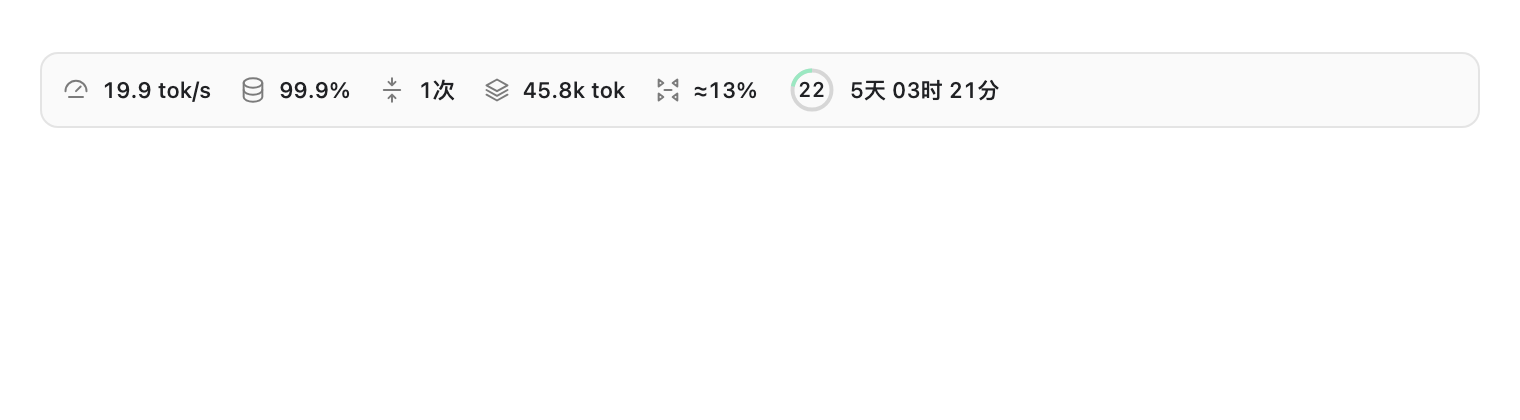
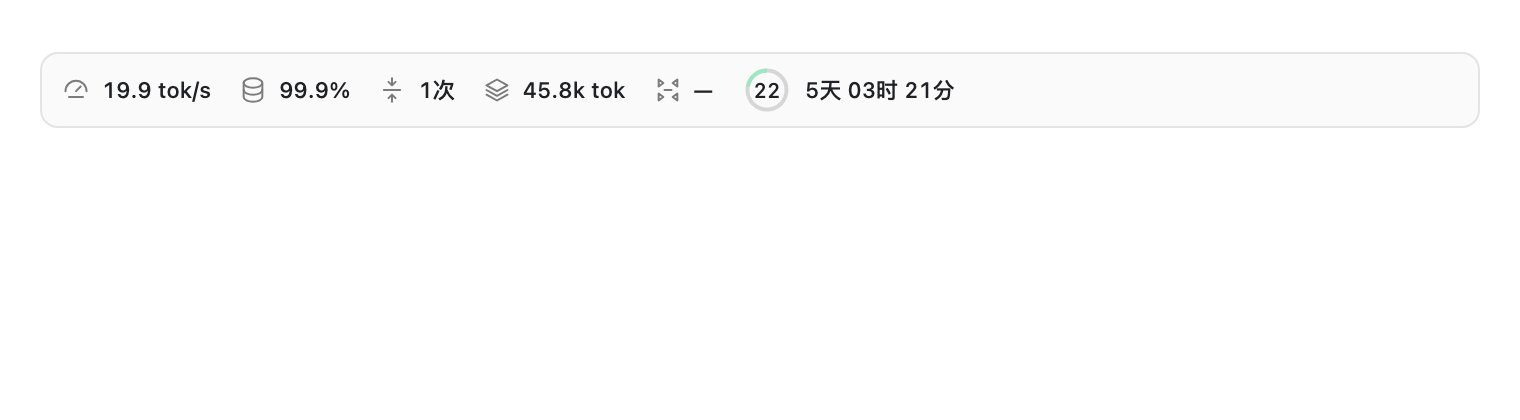
Stop presenting model defaults as remaining compaction budget

Changed region(s): [[0.4638, 0.1548, 0.6803, 0.2786]]

diff --git a/src/renderer.js b/src/renderer.js
@@ -329,13 +329,9 @@
       `包含手动和自动压缩，按完成事件去重。${partialHistory ? "当前可读历史可能不完整，此处仅为已记录次数。" : ""}`);
     metric("context", "上下文余量", numeric(values.contextRemainingTokens) ? `${tokens(values.contextRemainingTokens)} tok` : "—",
       `最近记录的上下文占用 ${tokens(values.contextUsedTokens)} / ${tokens(values.contextWindowTokens)} tok；上下文上限不等于压缩阈值。`);
-    const reference = values.compactReference;
-    if (reference?.kind === 'model-default-reference' && numeric(reference.remaining) && numeric(reference.remainingPercent)) {
-      metric('budget', '默认压缩参考余量', `≈${reference.remainingPercent.toFixed(0)}%`,
-        `参考剩余 ${tokens(reference.remaining)} tok（${Math.round(reference.remaining).toLocaleString()} tokens）。估算：按模型目录的默认压缩参考线 ${tokens(reference.limit)} tok 减去最近上下文占用；百分比为参考线剩余比例。不是当前会话最终生效阈值。自定义阈值、body_after_prefix 计量、回合结束策略或额外工具输出都可能提前或推迟压缩。到 0 也不表示必定立即压缩。`);
-    } else if (snapshot.draft) {
-      metric('budget', '剩余压缩余量', '—', '尚未开始对话');
-    }
+    // Model catalog defaults are not the session's resolved trigger budget.
+    // Ignore historical estimates, including snapshots restored from old caches.
+    metric('budget', '剩余压缩余量', '—', '当前会话未上报可验证的自动压缩触发余量。');
     resetMetric(stale);
   }
 

diff --git a/README.md b/README.md
@@ -16,7 +16,7 @@
 | 缓存 | 最近请求 cached_input_tokens / input_tokens |
 | 压缩次数 | 手动与自动压缩均计入；只统计可读取历史中完成的压缩，显示 `1次` |
 | 上下文余量 | 最近上报的上下文容量减已用 token |
-| 剩余压缩参考 | 可匹配模型目录时显示 `≈13%`；按模型默认规则估算，**不是会话最终触发阈值** |
+| 剩余压缩余量 | 当前客户端未上报可验证的实际触发余量，显示 `—`；已停用旧版基于模型默认规则的百分比估算 |
 | 账户用量 | 26px 圆环，圈内数字 10.4px、不带 `%`；亮色为剩余，顶部顺时针消耗 |
 | 重置倒计时 | `5天 03时 21分`；若可用重置卡更早到期，改显示该卡倒计时并加卡片图标 |
 
@@ -137,7 +137,7 @@ npm run uninstall:service
 macOS 示例：`CODEX_INFOBAR_PORT=9431 npm run install:service`。
 Windows 示例：`$env:CODEX_INFOBAR_PORT='9431'; npm run install:service`。
 
-不通过本项目改变实际自动压缩设置。参考项依据本机模型目录的默认限制推导；`body_after_prefix`、自定义阈值、回合结束策略及额外输出可能使实际触发时间不同，不能预测“还有几分钟压缩”。
+不通过本项目改变实际自动压缩设置。自动压缩可能由 token 阈值、回合结束策略、不同计量范围和模型策略触发；仅凭最近 token 用量和模型目录无法可靠推算触发余量。旧版默认阈值估算已停用，缓存中的旧估计也不会展示。上下文余量仍按实际上报数据正常显示。
 
 ## 数据与权限
 

diff --git a/CHANGELOG.md b/CHANGELOG.md
@@ -2,6 +2,8 @@
 
 ## Unreleased — Windows 安装、启动与显示修复
 
+- 停用不能反映实际触发规则的默认压缩余量估算；改为未知占位，读取和显示时均丢弃旧缓存估计。
+
 - 新对话尚无真实聊天 ID 时显示账户用量和倒计时，其余指标显示占位值；建立聊天后自动接入统计。
 
 修改文件、验证结果与限制见 [Windows 修复说明](docs/WINDOWS_FIXES.md)。
